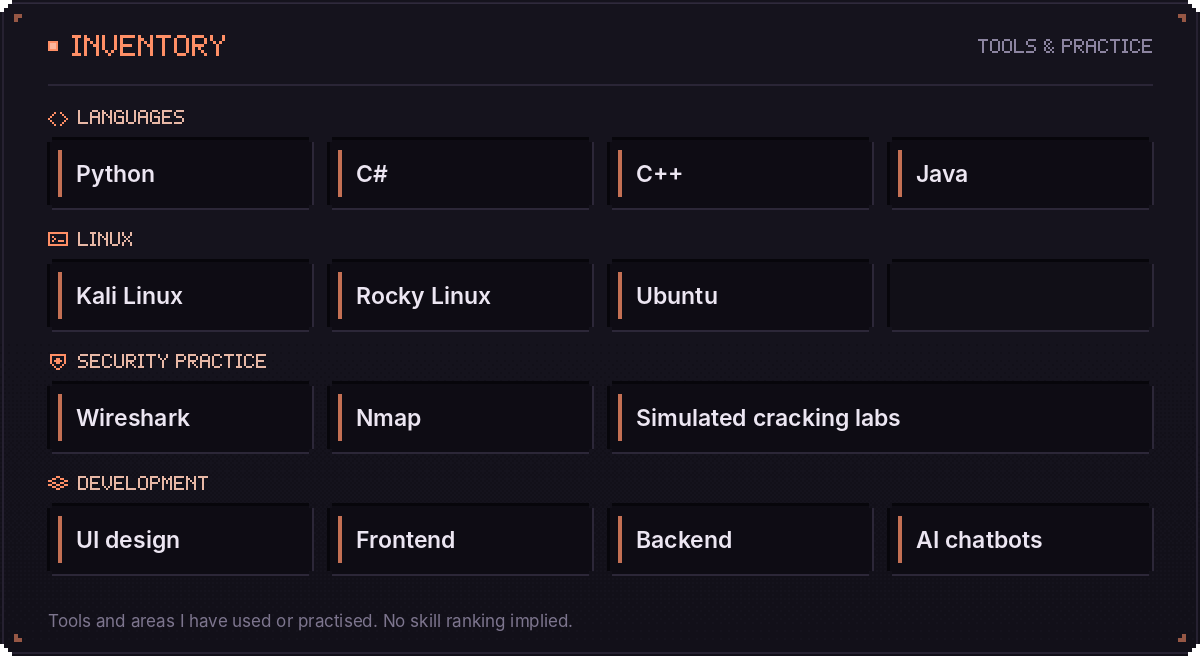
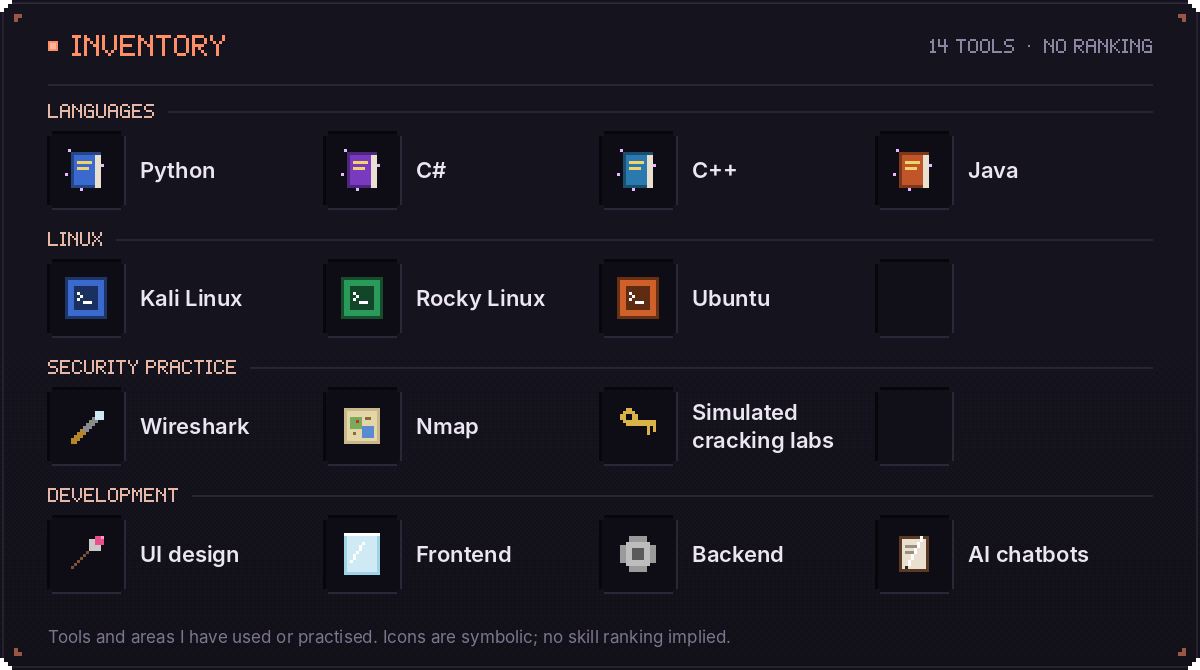
Add files via upload

diff --git a/README.md b/README.md
@@ -1,60 +1,27 @@
-<!-- Tay / Across Dimensions — upload this README.md and the assets folder to TayBoonTao/TayBoonTao. -->
+<!-- Tay / Across Dimensions — Game Edition. Upload this README.md and the assets folder to TayBoonTao/TayBoonTao. -->
 <p align="center">
-<img src="assets/dimension-overworld.gif" width="100%" alt="01 The Overworld. A carved block TAY wordmark over a golden-hour valley, an explorer beside a glowing purple portal. Tay Boon Tao — Cybersecurity, APU, class of 2028." />
+<img src="assets/title-screen.gif" width="100%" alt="Title screen: a carved stone TAY logo over a block-built valley with a cottage and a lake. Cybersecurity Edition. Splash text: Curiosity is my compass! Tay Boon Tao, APU Cybersecurity, class of 2028." />
 </p>
 
-<p align="center"><b>Three dimensions. One curious builder.</b><br />三个维度，一个不断探索的建造者。</p>
+<p align="center">
+<a href="#overworld--village"><img src="assets/btn-start.png" width="32%" alt="Start Journey" /></a>
+<a href="#the-end--projects"><img src="assets/btn-projects.png" width="32%" alt="Projects" /></a>
+<a href="#multiplayer--contact"><img src="assets/btn-multiplayer.png" width="32%" alt="Multiplayer — contact" /></a>
+</p>
 
-<img src="assets/player-profile.png" width="100%" alt="Player profile. Curiosity is my compass. Cybersecurity undergraduate at APU, expected April 2028. Exploring software development, robotics research and new challenges." />
+<p align="center"><b>One curious builder. Four worlds to explore.</b><br />一个不断探索的建造者，四个等你探索的世界。</p>
+
+## Overworld · Village
+
+<img src="assets/loading-world.gif" width="100%" alt="Loading screen: Generating world" />
+
+<img src="assets/world-village.gif" width="100%" alt="Overworld village: Tay walks the path with a mossy stone companion called Pebble, wheat grows on farmland, lanterns glow. Chat: Tay joined the game. Hi! I'm a cybersecurity undergraduate at APU. Curiosity is my compass." />
+
+<img src="assets/player-profile.png" width="100%" alt="Player profile: Tay Boon Tao. Cybersecurity undergraduate at APU, expected April 2028. Exploring software development, robotics research and new challenges. Languages: Chinese, English, Malay, Cantonese, Hokkien (basic)." />
 
 我是一名网络安全本科生，喜欢跨领域研究，通过不断挑战自己，把想法变成实际作品。
 
-<p align="center"><a href="#the-nether--toolkit">Enter the Nether ↓</a> &nbsp; · &nbsp; <a href="#the-end--projects">Explore the End ↓</a> &nbsp; · &nbsp; <a href="#multiplayer--contact">Connect with Tay ↓</a></p>
-
-<img src="assets/portal-transition.gif" width="100%" alt="Portal divider — a pulse of violet light travelling to the next dimension" />
-
-## The Nether · Toolkit
-
-<img src="assets/dimension-nether.gif" width="100%" alt="02 The Nether — toolkit and security lab. A bridge of terminals over flowing lava, signal packets moving along a circuit, a purple portal. Craft. Test. Understand." />
-
-<img src="assets/toolkit-inventory.png" width="100%" alt="Inventory: Python, C#, C++, Java; Kali Linux, Rocky Linux, Ubuntu; Wireshark, Nmap, simulated cracking labs; UI design, frontend, backend and AI chatbots." />
-
-<details>
-<summary>Open inventory / 技能文字版</summary>
-
-| Category | Tools and practice |
-| :--- | :--- |
-| Programming | Python · C# · C++ · Java |
-| Linux environments | Kali Linux · Rocky Linux · Ubuntu |
-| Security practice | Wireshark · Nmap · simulated offline password-cracking exercises |
-| Development | UI design · frontend development · backend development · AI chatbots |
-
-These are tools and areas I have used or practised; no skill ranking is implied.
-
-</details>
-
-<img src="assets/portal-transition.gif" width="100%" alt="Portal divider — travelling to the End" />
-
-## The End · Projects
-
-<img src="assets/dimension-end.gif" width="100%" alt="03 The End. Two floating islands with glowing crystals linked by light beams to a central gateway. Build something worth exploring." />
-
-<p align="center">
-<a href="https://github.com/TayBoonTao/MumCare"><img src="assets/island-mumcare.png" width="49%" alt="Island 01 — MumCare, a postpartum care companion app. TypeScript, AWS, AI. Click to explore the repository." /></a>
-<a href="https://github.com/TayBoonTao/Syntax-Error-Academy"><img src="assets/island-academy.png" width="49%" alt="Island 02 — Syntax Error Academy, a gamified C# learning platform. C#, ASP.NET, SQL Server. Click to explore the repository." /></a>
-</p>
-
-<p align="center"><a href="https://github.com/TayBoonTao/MumCare">Explore MumCare →</a> &nbsp; · &nbsp; <a href="https://github.com/TayBoonTao/Syntax-Error-Academy">Explore Syntax Error Academy →</a></p>
-
-<img src="assets/quest-log.png" width="100%" alt="Quest log: security logging — audit trails and log integrity; blockchain integrity verification — final-year project direction." />
-
-<img src="assets/portal-transition.gif" width="100%" alt="Portal divider — returning to the player journal" />
-
-## Player Journal · Background
-
-<img src="assets/journey.png" width="100%" alt="Experience: Information Technology Support Specialist internship, AI Robotics Gallery SDN.BHD, June–November 2025, Puchong, Selangor. E-Commerce Administrator, part-time, Kah Bee Textile SDN.BHD, May 2021–June 2023, Malaysia. Side quest: Capture the Flag competition participant." />
-
-<img src="assets/player-record.png" width="100%" alt="Asia Pacific University of Technology and Innovation (APU / APIIT), Cybersecurity undergraduate, July 2023–April 2028 expected. Languages: Chinese, English, Malay, Cantonese and basic Hokkien." />
+<img src="assets/advancements.png" width="100%" alt="Advancements: IT Support Specialist internship at AI Robotics Gallery SDN.BHD, Puchong, Selangor, Jun–Nov 2025. E-Commerce Administrator, part-time, Kah Bee Textile SDN.BHD, May 2021–Jun 2023. Cybersecurity undergraduate at APU / APIIT, Jul 2023–Apr 2028 expected. Challenge accepted: Capture the Flag competition participant." />
 
 <details>
 <summary>Read player journal / 经历与学历文字版</summary>
@@ -72,16 +39,60 @@ These are tools and areas I have used or practised; no skill ranking is implied.
 
 </details>
 
-## Multiplayer · Contact
+## The Caves · Toolkit
 
-<img src="assets/connect.png" width="100%" alt="Multiplayer. Software development and robotics research. Open to part-time and full-time opportunities." />
+<img src="assets/loading-caves.gif" width="100%" alt="Loading screen: Descending into the caves" />
+
+<img src="assets/world-caves.gif" width="100%" alt="Cave cross-section: Tay mines a diamond ore while a minecart rolls along the rails, ore veins glitter in the walls, a lava pool glows and small glowing cave critters bounce. Debug overlay: Biome toolkit_caves." />
+
+<img src="assets/toolkit-inventory.png" width="100%" alt="Inventory: Python, C#, C++, Java; Kali Linux, Rocky Linux, Ubuntu; Wireshark, Nmap, simulated cracking labs; UI design, frontend, backend, AI chatbots." />
+
+<details>
+<summary>Open inventory / 技能文字版</summary>
+
+| Category | Tools and practice |
+| :--- | :--- |
+| Programming | Python · C# · C++ · Java |
+| Linux environments | Kali Linux · Rocky Linux · Ubuntu |
+| Security practice | Wireshark · Nmap · simulated offline password-cracking exercises |
+| Development | UI design · frontend development · backend development · AI chatbots |
+
+These are tools and areas I have used or practised; no skill ranking is implied.
+
+</details>
+
+## The Nether · Security Lab
+
+<img src="assets/loading-nether.gif" width="100%" alt="Loading screen: Entering the Nether, over a swirling purple portal" />
+
+<img src="assets/world-nether.gif" width="100%" alt="Nether fortress: a nether-brick bridge with blinking redstone lamps and a brewing stand, a lava fall, a purple portal and a Capture the Flag banner waving on the tower." />
+
+<img src="assets/quest-log.png" width="100%" alt="Quest log: security logging — audit trails and log integrity; blockchain integrity verification — final-year project direction." />
+
+## The End · Projects
+
+<img src="assets/loading-end.gif" width="100%" alt="Loading screen: Entering the End" />
+
+<img src="assets/world-end.gif" width="100%" alt="End city: purpur towers with glowing rods, chorus plants, a gateway and a loot chest opening. Toast: Loot chest opened! 2 projects found below." />
 
 <p align="center">
-<a href="mailto:boontaotay@gmail.com"><img src="assets/connect-email.png" width="49%" alt="Email boontaotay@gmail.com" /></a>
-<a href="https://www.linkedin.com/in/boon-tao-tay-91272a364/"><img src="assets/connect-linkedin.png" width="49%" alt="LinkedIn — Boon Tao Tay" /></a>
+<a href="https://github.com/TayBoonTao/MumCare"><img src="assets/loot-mumcare.png" width="49%" alt="Loot 01 — MumCare, a postpartum care companion app. TypeScript, AWS, AI. Click to explore the repository." /></a>
+<a href="https://github.com/TayBoonTao/Syntax-Error-Academy"><img src="assets/loot-academy.png" width="49%" alt="Loot 02 — Syntax Error Academy, a gamified C# learning platform. C#, ASP.NET, SQL Server. Click to explore the repository." /></a>
+</p>
+
+<p align="center"><a href="https://github.com/TayBoonTao/MumCare">Explore MumCare →</a> &nbsp; · &nbsp; <a href="https://github.com/TayBoonTao/Syntax-Error-Academy">Explore Syntax Error Academy →</a></p>
+
+## Multiplayer · Contact
+
+<img src="assets/multiplayer.png" width="100%" alt="Server list: Tay's Server — software development and robotics research. Open to part-time and full-time opportunities." />
+
+<p align="center">
+<a href="mailto:boontaotay@gmail.com"><img src="assets/btn-join.png" width="49%" alt="Join Server — email boontaotay@gmail.com" /></a>
+<a href="https://www.linkedin.com/in/boon-tao-tay-91272a364/"><img src="assets/btn-direct.png" width="49%" alt="Direct Connect — LinkedIn, Boon Tao Tay" /></a>
 </p>
 
 <p align="center"><sub><a href="mailto:boontaotay@gmail.com">boontaotay@gmail.com</a> &nbsp; · &nbsp; <a href="https://www.linkedin.com/in/boon-tao-tay-91272a364/">LinkedIn / Boon Tao Tay</a></sub></p>
 
----
-<p align="center"><sub>Keep exploring. Keep building. / 保持好奇，继续建造。<br />Original block-world artwork for Tay. Inspired by Minecraft; an independent fan creation, not affiliated with Mojang or Microsoft.</sub></p>
+<img src="assets/credits.png" width="100%" alt="Thanks for playing! Keep exploring. Keep building." />
+
+<p align="center"><sub>保持好奇，继续建造。<br />Original block-world artwork for Tay: every texture, item and creature is drawn from scratch. Inspired by Minecraft; an independent fan creation, not affiliated with Mojang or Microsoft.</sub></p>
